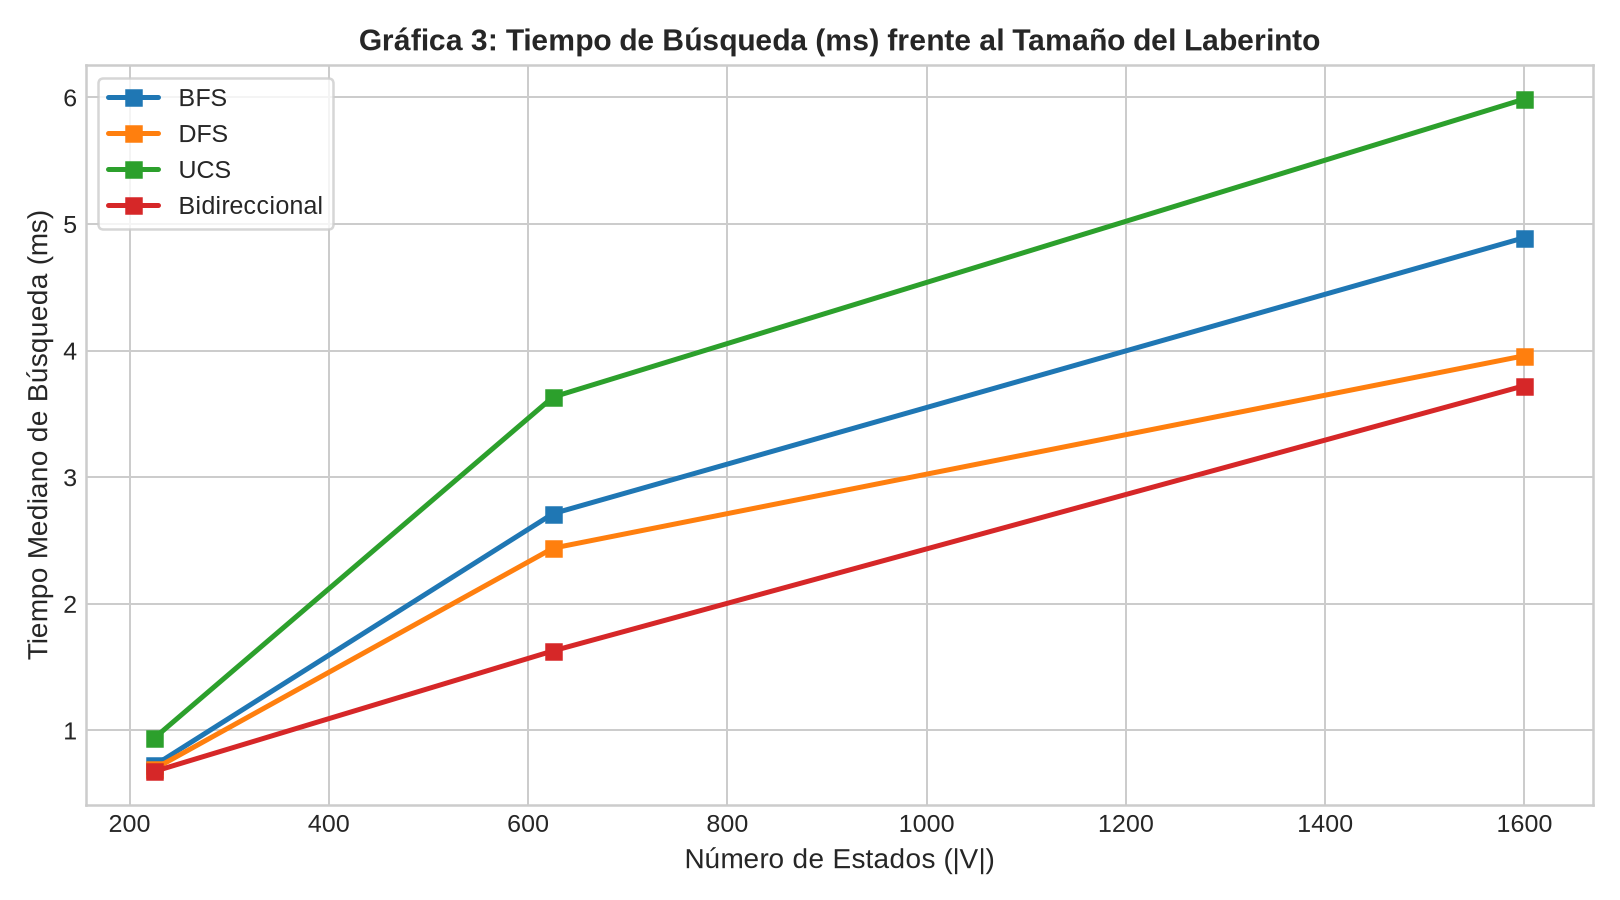
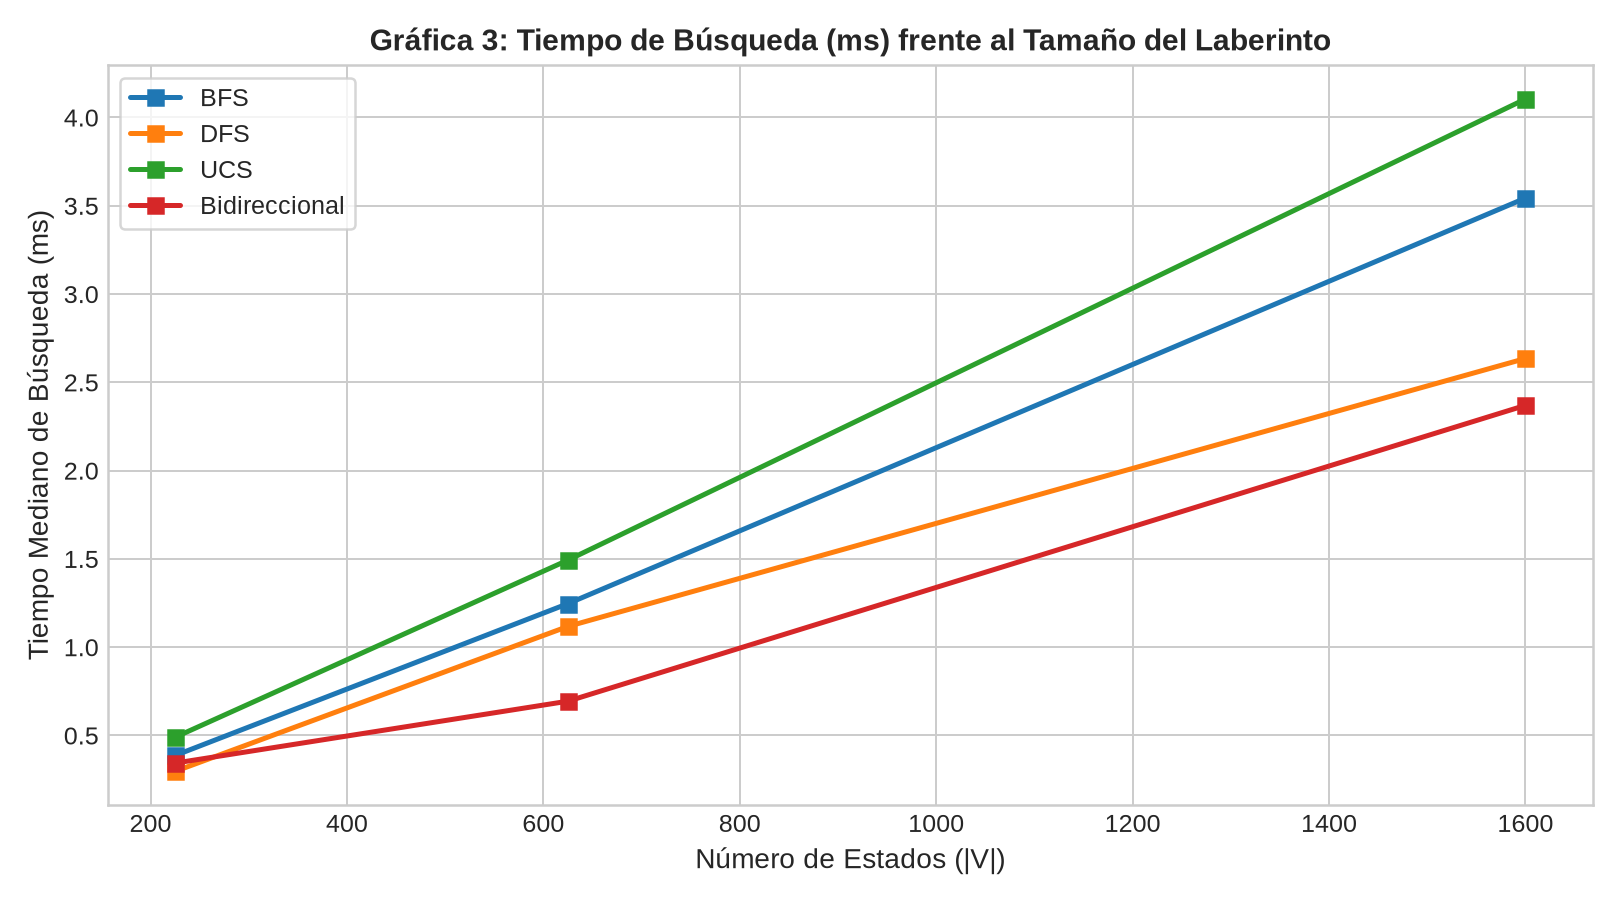
docs: completar analisis teorico, preguntas de defensa, README y reporte final

diff --git a/README.md b/README.md
@@ -1,0 +1,101 @@
+# Hunt-and-Kill y Búsqueda no Informada
+
+[![Python 3.10+](https://img.shields.io/badge/python-3.10+-blue.svg)](https://www.python.org/)
+[![License: MIT](https://img.shields.io/badge/License-MIT-yellow.svg)](https://opensource.org/licenses/MIT)
+[![AIMA Reference](https://img.shields.io/badge/AIMA-Capítulo%203-brightgreen.svg)](https://aima.cs.berkeley.edu/)
+
+Proyecto integral del curso de **Inteligencia Artificial** centrado en la generación de laberintos perfectos mediante el algoritmo **Hunt-and-Kill** y la implementación, verificación experimental y análisis comparativo de algoritmos de **búsqueda no informada**.
+
+---
+
+## 📌 Contenido y Estructura del Proyecto
+
+El proyecto implementa el contrato común de búsqueda en **tres versiones independientes y comparables**:
+
+1. **Versión 1 — Desde Cero (`src/busqueda_cero.py`):**
+   - Implementación pura sin bibliotecas de grafos ni de búsqueda.
+   - Algoritmos: **DFS (iterativo)**, **BFS**, **UCS (Costo Uniforme)**, **DLS (Profundidad Limitada)**, **IDDFS (Profundización Iterativa)**, **Búsqueda Bidireccional** y **Algoritmo de Lee (Frente de Onda)**.
+2. **Versión 2 — SimpleAI (`src/adaptador_simpleai.py`):**
+   - Subclase de `simpleai.search.SearchProblem` con estados inmutables.
+   - Instrumentación desacoplada mediante un `BaseViewer` personalizado sin modificar la biblioteca instalada.
+3. **Versión 3 — AIMA-Python (`src/adaptador_aima.py`):**
+   - Subclase de `aima.search.Problem` adaptada a la referencia oficial de Russell & Norvig.
+   - Instrumentación pura que captura nodos expandidos y generados.
+
+```text
+.
+├── Taller_Hunt_and_Kill_Busqueda_No_Informada.ipynb   # Cuaderno principal con las 14 secciones
+├── requirements.txt                                  # Dependencias del proyecto
+├── src/                                              # Código fuente modular
+│   ├── auditoria_generador.py                        # Pruebas automáticas del generador Hunt-and-Kill
+│   ├── comun.py                                      # Contrato ResultadoBusqueda y clase Nodo
+│   ├── busqueda_cero.py                              # Algoritmos implementados desde cero
+│   ├── visualizador_lee.py                           # Visualizaciones del frente y mapa de calor de Lee
+│   ├── adaptador_simpleai.py                         # Adaptador e instrumentación para SimpleAI
+│   ├── adaptador_aima.py                             # Adaptador e instrumentación para AIMA-Python
+│   ├── pruebas_aceptacion.py                         # Suite de pruebas de aceptación y casos límite
+│   ├── topologias_costos.py                          # Transformaciones con ciclos y costos ponderados
+│   └── protocolo_experimental.py                     # Benchmark factorial (mediana e IQR) y gráficas
+├── aima/                                             # Módulo local de referencia de AIMA-Python
+├── grafica1_expandidos_vs_estados.png                # Gráfica obligatoria 1
+├── grafica2_frontera_vs_profundidad.png              # Gráfica obligatoria 2
+├── grafica3_tiempo_vs_tamano.png                     # Gráfica obligatoria 3
+├── grafica4_costo_y_longitud.png                     # Gráfica obligatoria 4
+├── grafica5_mapa_calor_lee.png                       # Gráfica obligatoria 5
+├── grafica6_comparativa_versiones.png                # Gráfica obligatoria 6
+├── lee_frente_onda.png                               # 8 instantes del frente de onda de Lee
+└── lee_mapa_calor.png                                # Mapa de calor de llegada de Lee
+```
+
+---
+
+## 🚀 Instalación y Ejecución
+
+### 1. Clonar el repositorio
+```bash
+git clone https://github.com/Valdefer54/Hunt-and-Kill-y-Busqueda-No-Informada.git
+cd Hunt-and-Kill-y-Busqueda-No-Informada
+```
+
+### 2. Crear y activar entorno virtual
+```bash
+python3 -m venv .venv
+source .venv/bin/activate
+pip install -r requirements.txt
+```
+
+### 3. Ejecutar el Cuaderno
+Abre el cuaderno en Jupyter Notebook, JupyterLab o VS Code y ejecuta **"Run All"**:
+```bash
+jupyter notebook Taller_Hunt_and_Kill_Busqueda_No_Informada.ipynb
+```
+
+---
+
+## 📊 Parámetros de la Instancia Individual
+
+- **Código Estudiantil:** `202410057`
+- **Semilla:** `10057`
+- **Dimensiones:** $27 \times 25$ ($675$ celdas)
+- **Inicio:** `(3, 4)` (Cuadrante Superior Izquierdo)
+- **Meta:** `(23, 20)` (Cuadrante Inferior Derecho)
+- **Aristas del Árbol:** $674$ ($|V| - 1$)
+
+---
+
+## 📈 Gráficas y Visualizaciones Obligatorias
+
+El proyecto genera automáticamente las 6 visualizaciones exigidas por la rúbrica:
+1. **Nodos Expandidos vs Número de Estados:** Evaluación de escalabilidad con mediana e IQR.
+2. **Frontera Máxima vs Profundidad:** Comparación del consumo de memoria (espacio lineal en DFS vs exponencial en BFS).
+3. **Tiempo de Búsqueda frente a Tamaño:** Rendimiento en milisegundos a través de diferentes órdenes de cuadrícula.
+4. **Costo y Longitud por Topología:** Evidencia de cómo los ciclos diferencian a BFS de DFS, y cómo los costos ponderados diferencian a UCS de BFS.
+5. **Mapa de Calor de Lee:** Distribución temporal de frentes isotrópicos con superposición de la ruta geodésica.
+6. **Comparativa Cruzada de Versiones:** Rendimiento comparado entre *Desde Cero*, *SimpleAI* y *AIMA-Python*.
+
+---
+
+## 📜 Licencia y Autoría
+
+Desarrollado para el curso de **Inteligencia Artificial** (Referencia: Russell & Norvig, AIMA 4.ª Edición).  
+Repositorio oficial: [https://github.com/Valdefer54/Hunt-and-Kill-y-Busqueda-No-Informada](https://github.com/Valdefer54/Hunt-and-Kill-y-Busqueda-No-Informada)
